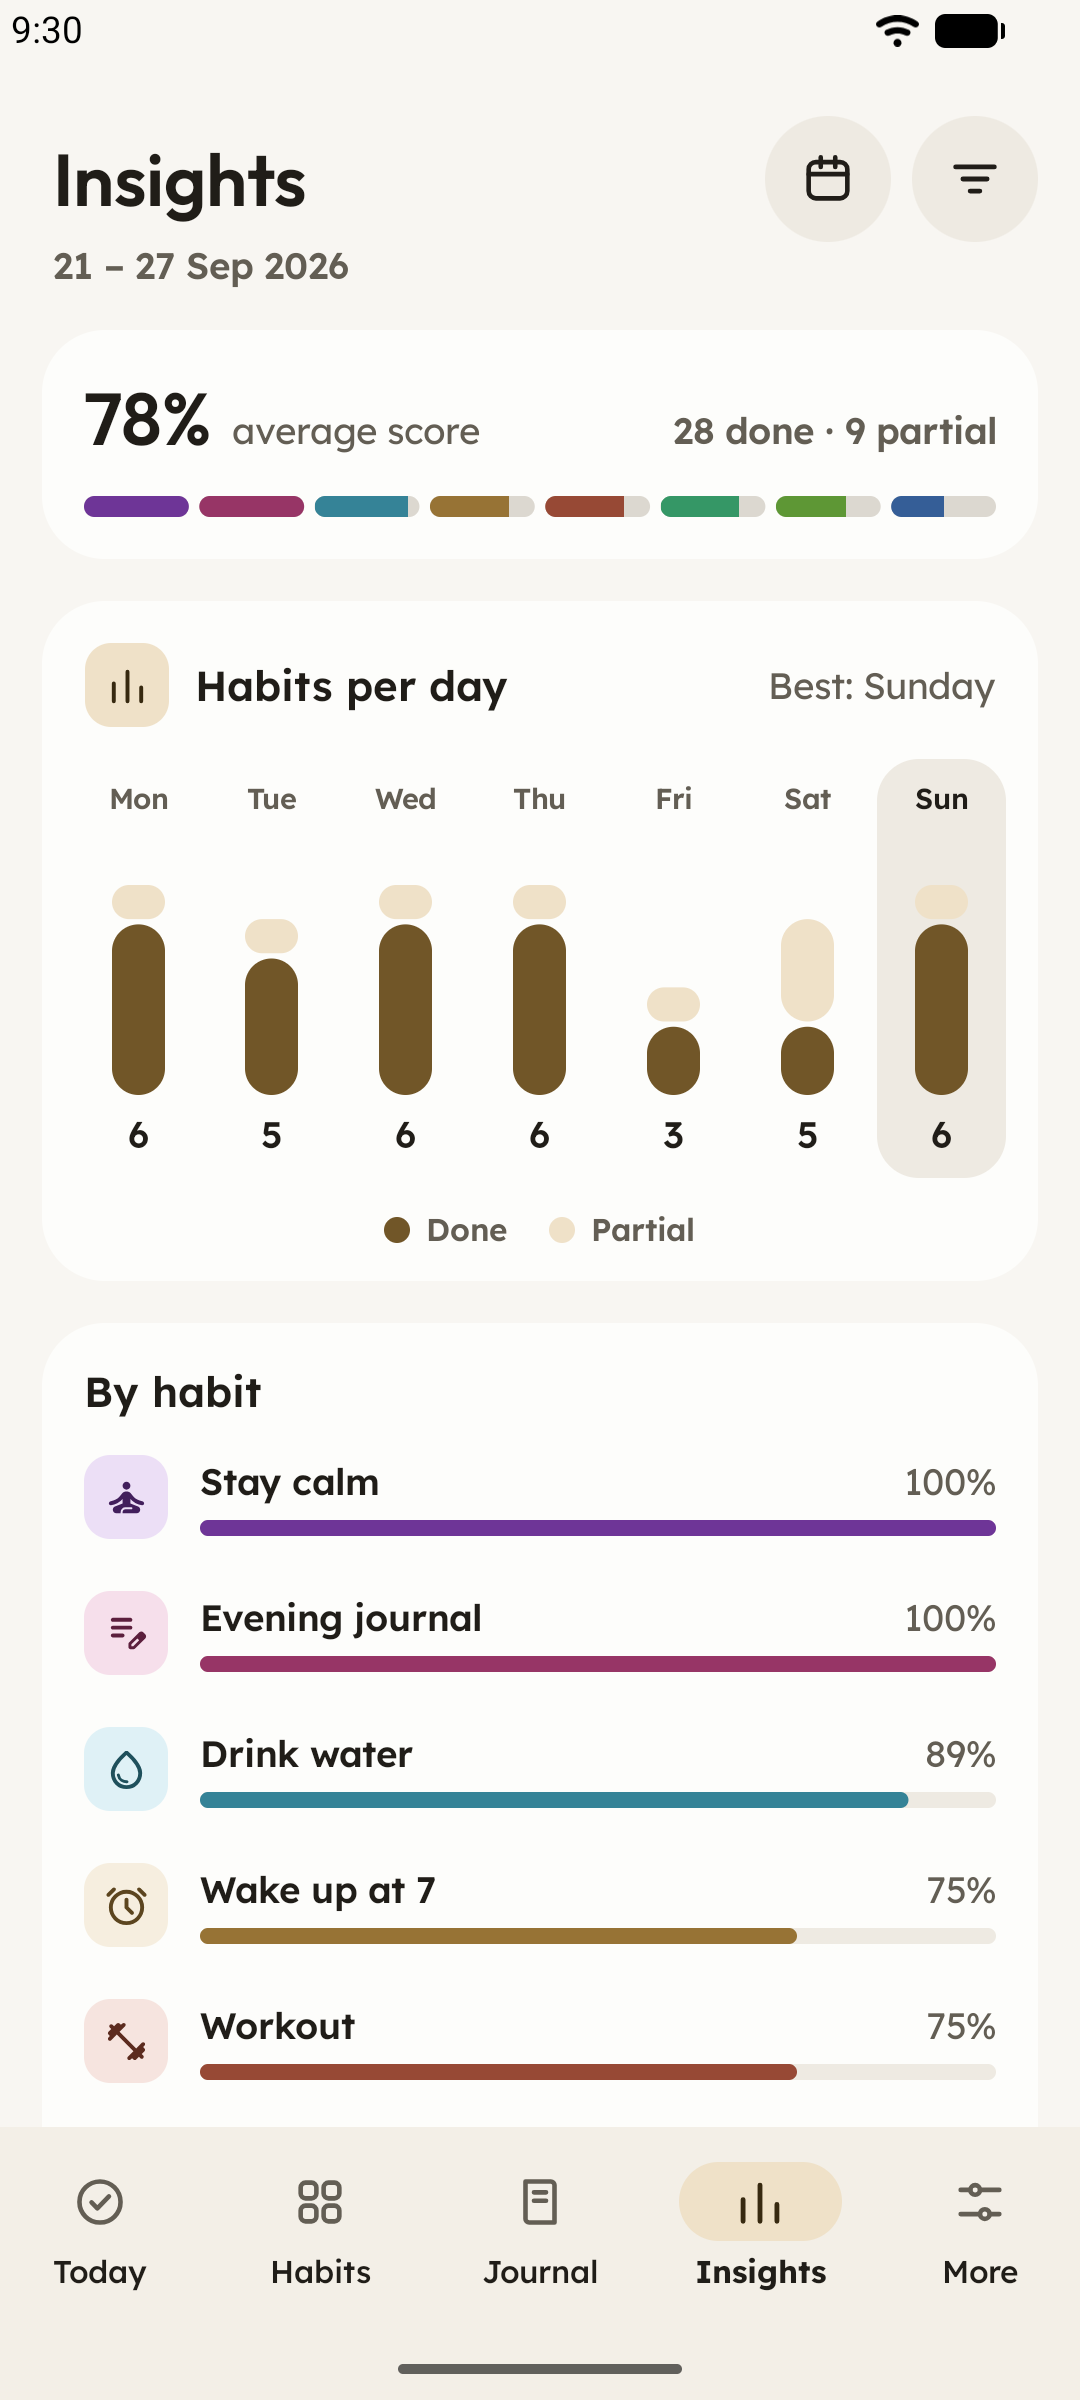
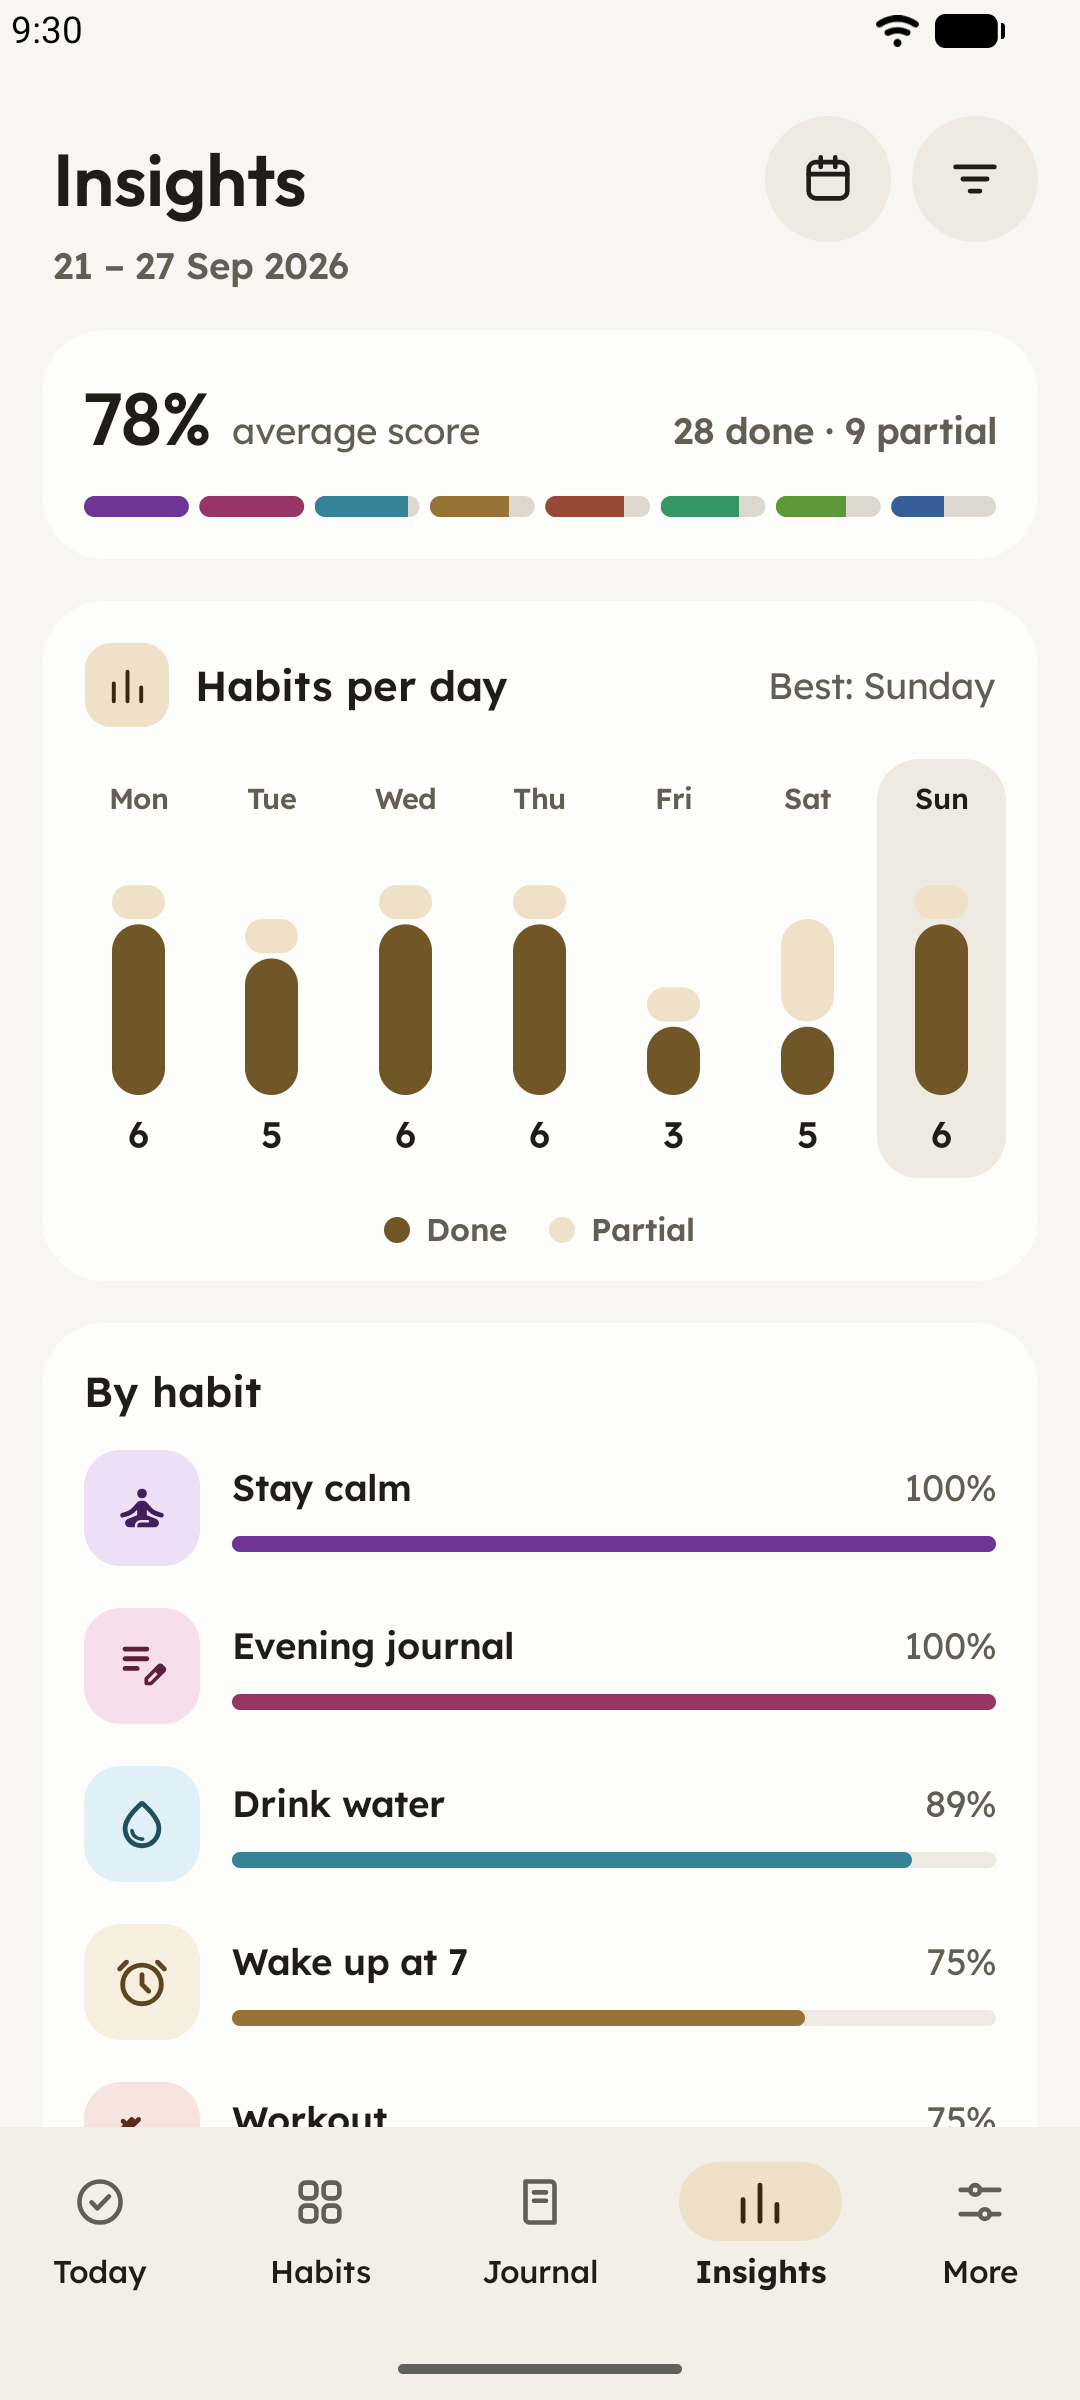
Insights: By habit rows use the 44dp tile from Today and more room above the bar

Changed region(s): [[0.0611, 0.5938, 0.9167, 0.9062]]

diff --git a/app/src/main/java/app/sprout/habits/ui/insights/InsightsScreen.kt b/app/src/main/java/app/sprout/habits/ui/insights/InsightsScreen.kt
@@ -219,11 +219,12 @@ private fun ByHabit(rates: List<HabitRateUi>) {
         Text(stringResource(R.string.insights_by_habit), style = type.titleMedium, color = colors.onSurface, modifier = Modifier.padding(bottom = 4.dp))
         rates.forEach { r ->
             val hc = habitColors(r.hue)
-            Row(Modifier.padding(vertical = 10.dp).semantics(mergeDescendants = true) {}, verticalAlignment = Alignment.CenterVertically) {
-                Box(Modifier.size(32.dp).background(hc.soft, RoundedCornerShape(10.dp)), contentAlignment = Alignment.Center) {
-                    Icon(painterResource(r.icon), contentDescription = null, tint = hc.ink, modifier = Modifier.size(18.dp))
+            // The same 44 dp tile and 22 dp icon as the Today and Journal cards.
+            Row(Modifier.padding(vertical = 8.dp).semantics(mergeDescendants = true) {}, verticalAlignment = Alignment.CenterVertically) {
+                Box(Modifier.size(44.dp).background(hc.soft, RoundedCornerShape(14.dp)), contentAlignment = Alignment.Center) {
+                    Icon(painterResource(r.icon), contentDescription = null, tint = hc.ink, modifier = Modifier.size(22.dp))
                 }
-                Column(Modifier.weight(1f).padding(start = 12.dp), verticalArrangement = Arrangement.spacedBy(6.dp)) {
+                Column(Modifier.weight(1f).padding(start = 12.dp), verticalArrangement = Arrangement.spacedBy(10.dp)) {
                     Row(verticalAlignment = Alignment.Bottom) {
                         Text(r.name, style = type.titleSmall, color = colors.onSurface, maxLines = 1, overflow = TextOverflow.Ellipsis, modifier = Modifier.weight(1f).padding(end = 8.dp))
                         Text(stringResource(R.string.percent, r.percent), style = type.bodyMedium, color = colors.onSurfaceVariant, softWrap = false)
